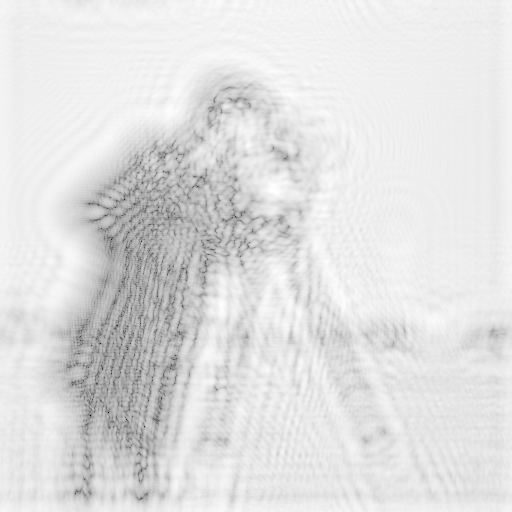
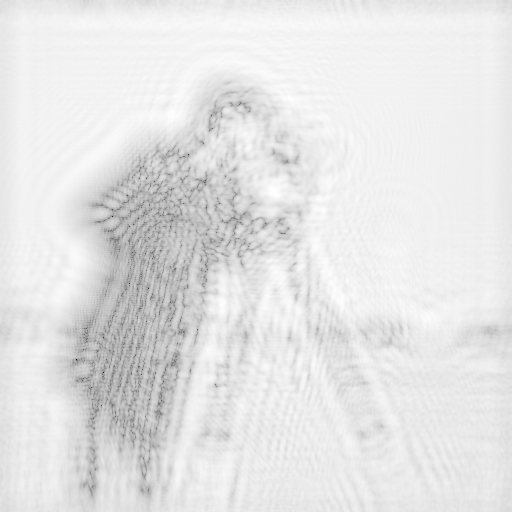
it's nice

diff --git a/Punto1_TF_FFT.py b/Punto1_TF_FFT.py
@@ -43,7 +43,7 @@ w_l=633          #(633nm orange/red) #All units in um
 dx0=2000        #2um
 N=M=int(512/2)
 #z=1*N*(dx0**2)/w_l  #Condition of z in FT
-z=32*1e5   #3.2 mm
+z=33*1e5   #3.2 mm
 U_0=cv2.imread('cameraman.png',0)
 
 "-----PADDING-----" #If needed 
